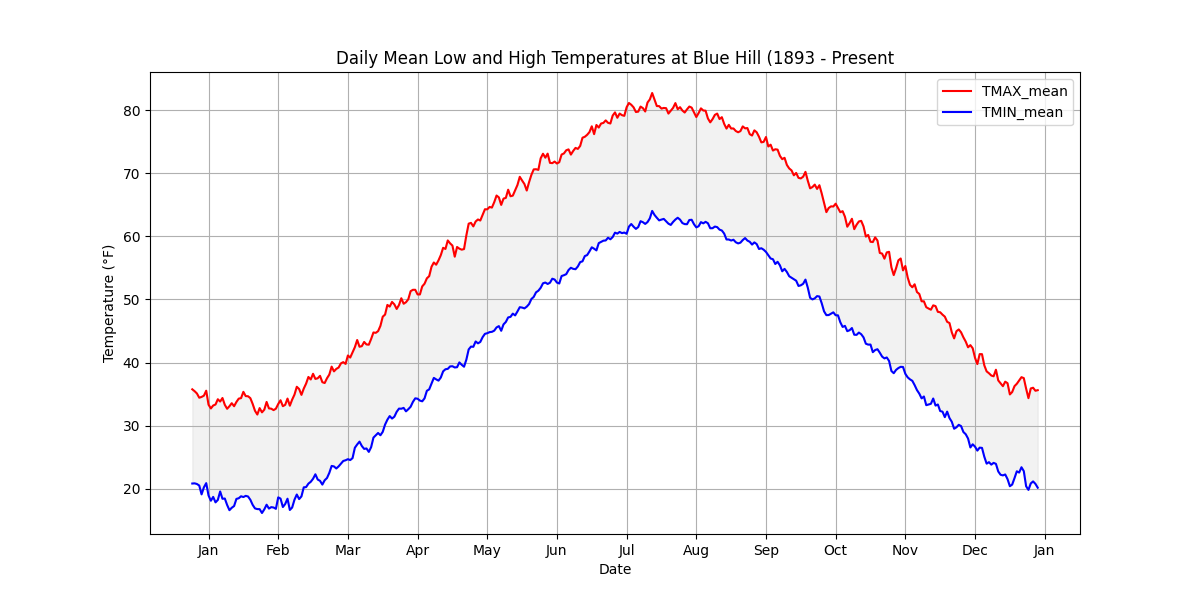
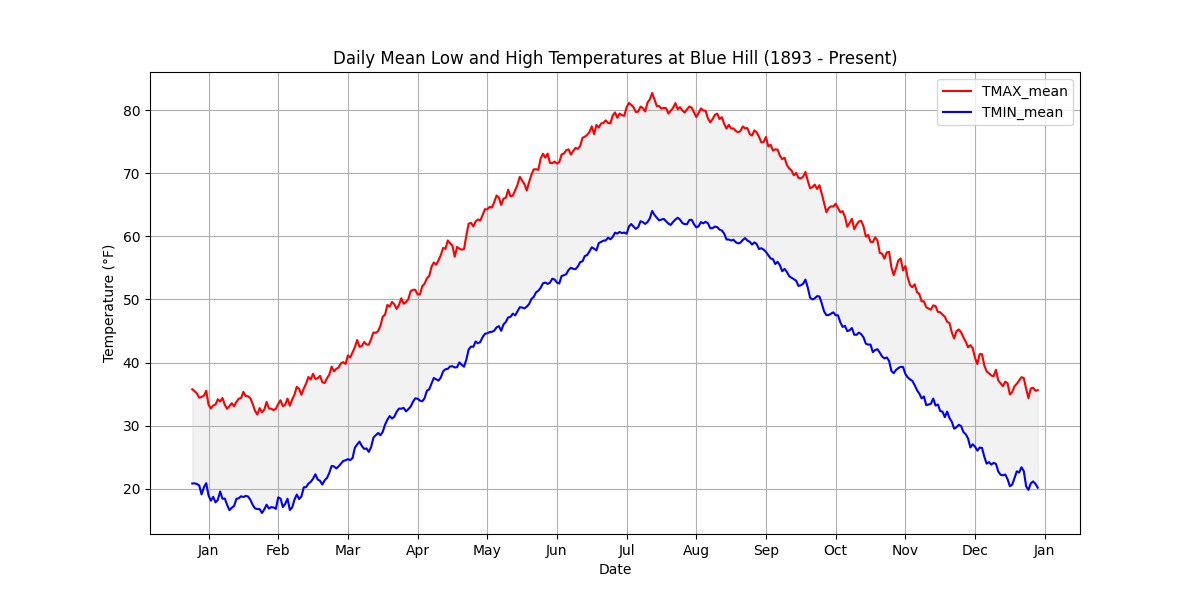
Daily force push to update repo

Changed region(s): [[0.2775, 0.06, 0.74, 0.12]]

diff --git a/tools/day_summaries.py b/tools/day_summaries.py
@@ -1,10 +1,16 @@
 import pandas as pd
+import requests
+from io import StringIO
 
-# Path to the local CSV file
-file_path = '/home/swieyeinthesky/bluehillproject/data/blue_hill.csv'
+# URL to the remote CSV file on GitHub
+file_url = 'https://raw.githubusercontent.com/HaydenWStone/bluehillproject/main/data/blue_hill.csv'
+
+# Fetch the CSV file from the URL
+response = requests.get(file_url)
+response.raise_for_status()  # Ensure we notice bad responses
 
 # Read the CSV file into a DataFrame
-blue_hill_data = pd.read_csv(file_path)
+blue_hill_data = pd.read_csv(StringIO(response.text))
 
 # Ensure the 'Date' column is of datetime type
 blue_hill_data['Date'] = pd.to_datetime(blue_hill_data['Date'])

diff --git a/tools/create_visuals.py b/tools/create_visuals.py
@@ -26,7 +26,7 @@ plt.figure(figsize=(12, 6))
 plt.plot(data['Date'], data['TMAX_mean'], label='TMAX_mean', color='red')
 plt.plot(data['Date'], data['TMIN_mean'], label='TMIN_mean', color='blue')
 plt.fill_between(data['Date'], data['TMAX_mean'], data['TMIN_mean'], color='gray', alpha=0.1)
-plt.title('Daily Mean Low and High Temperatures at Blue Hill (1893 - Present')
+plt.title('Daily Mean Low and High Temperatures at Blue Hill (1893 - Present)')
 plt.xlabel('Date')
 plt.ylabel('Temperature (°F)')
 plt.legend()
